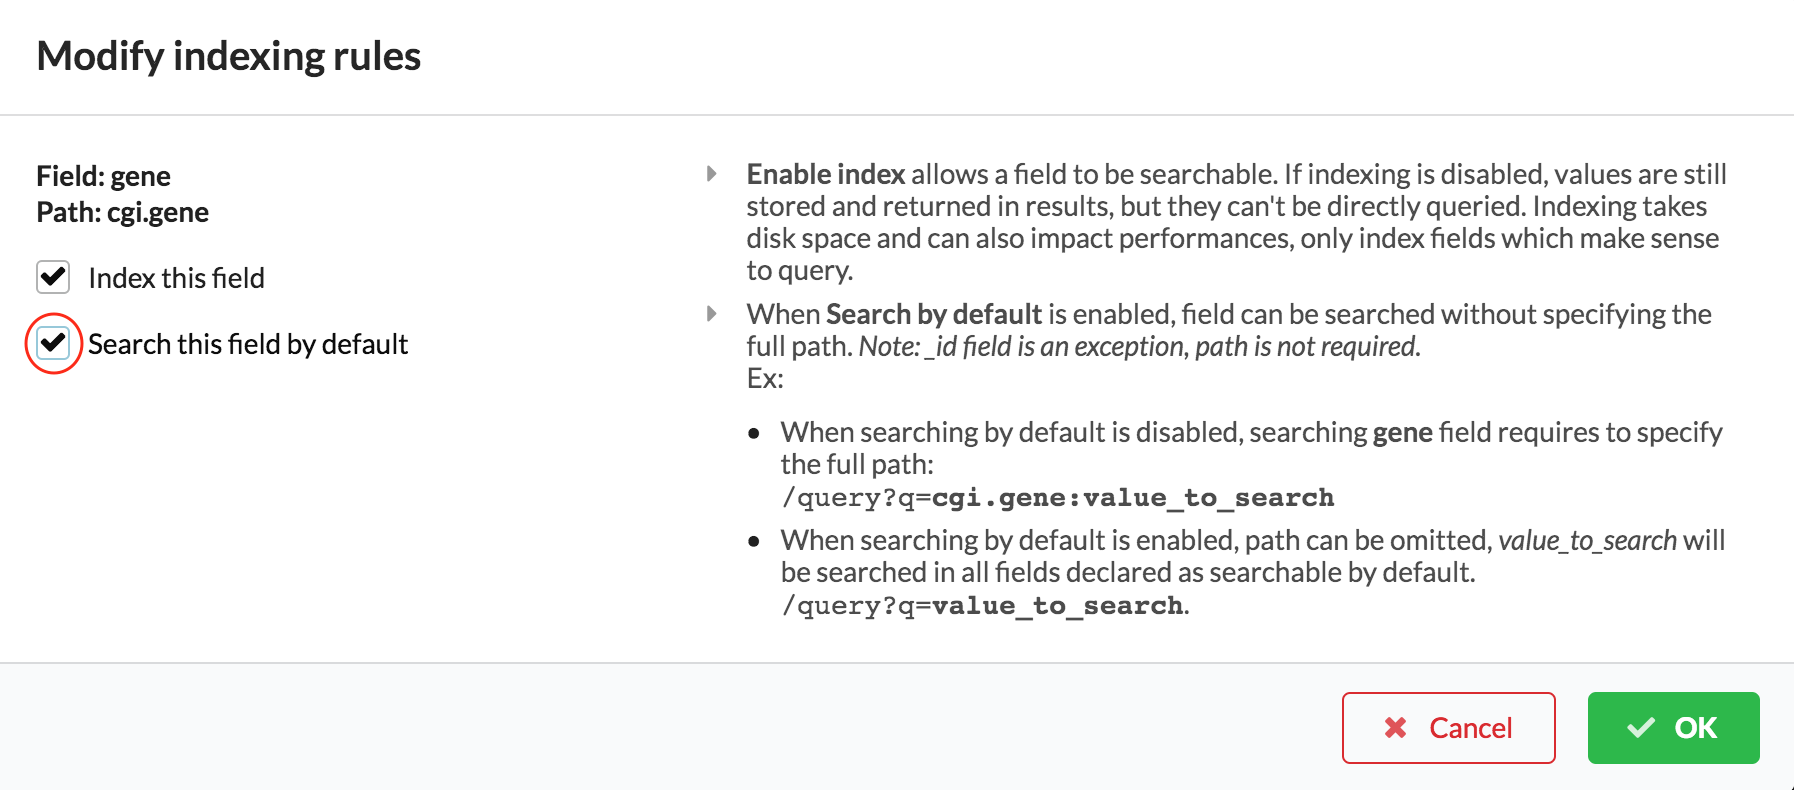
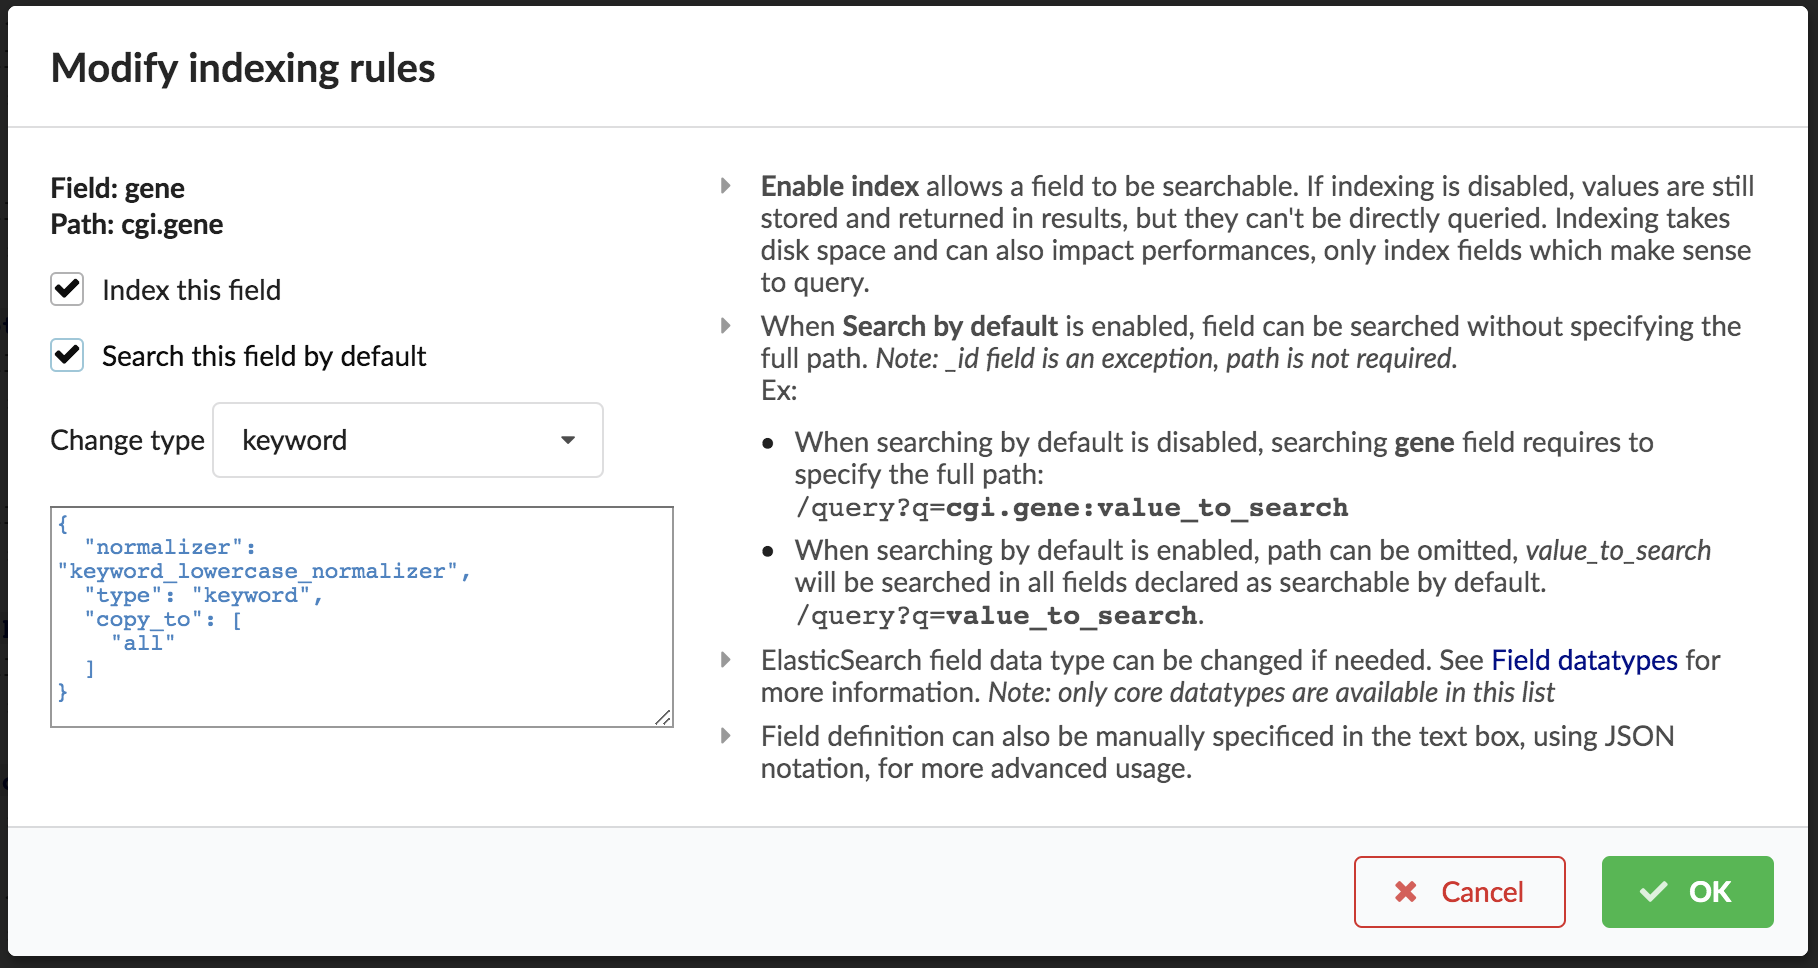
update studio doc for 0.1f release

Changed region(s): [[0.0, 0.0, 1.0, 1.0], [0.3434, 0.7291, 0.3746, 0.7595]]

diff --git a/docs/doc/studio_tutorial.rst b/docs/doc/studio_tutorial.rst
@@ -75,9 +75,9 @@ Once downloaded, the image can be loaded into the server:
   $ docker image load < biothings_studio_latest.docker
   $ docker image list
   REPOSITORY          TAG                 IMAGE ID            CREATED             SIZE
-  biothings_studio    0.1e                742a8c502280        2 months ago        1.81 GB
+  biothings_studio    0.1f                742a8c502280        2 months ago        1.81 GB
 
-Notice the value for *TAG*, we'll need it to run the container (here, ``0.1e``)
+Notice the value for *TAG*, we'll need it to run the container (here, ``0.1f``)
 
 A **BioThings Studio** instance expose several services on different ports:
 
@@ -94,15 +94,16 @@ having to enter the container:
 
 .. code:: bash
 
-  $ docker run --name studio -p 8080:8080 -p 7022:7022 -p 7080:7080 -p 9200:9200 -p 27017:27017 -p 8000:8000 -p 9000:9000 -d biothings_studio:0.1e
+  $ docker run --name studio -p 8080:8080 -p 7022:7022 -p 7080:7080 -p 9200:9200 -p 27017:27017 -p 8000:8000 -p 9000:9000 -d biothings_studio:0.1f
 
-.. note:: we need to add the release number after the image name: biothings_studio:**0.1e**. Should you use another release (including unstable releases,
+.. note:: we need to add the release number after the image name: biothings_studio:**0.1f**. Should you use another release (including unstable releases,
    tagged as ``master``) you would need to adjust this parameter accordingly.
 
 .. note:: Biothings Studio and the Hub are not designed to be publicly accessible. Those ports should **not** be exposed. When
    accessing the Studio and any of these ports, SSH tunneling can be used to safely access the services from outside.
-   Ex: ``ssh -L 7080:localhost:7080 -L 8080:localhost:8080 user@mydockerserver`` will expose the web application and
-   the REST API ports to your computer, so you can access the webapp using http://localhost:8080 and the API using http://localhost:7080.
+   Ex: ``ssh -L 7080:localhost:7080 -L 8080:localhost:8080 user@mydockerserver`` will expose the web application,
+   the REST API, Hub SSH and Cerebro app ports  to your computer, so you can access the webapp using http://localhost:8080, the API using http://localhost:7080,
+   http://localhost:9000 for Cerebro, and directly type ``ssh -p 7022 biothings@localhost`` to access Hub's internals via the console.
    See https://www.howtogeek.com/168145/how-to-use-ssh-tunneling for more
 
 We can follow the starting sequence using ``docker logs`` command:
@@ -114,6 +115,8 @@ We can follow the starting sequence using ``docker logs`` command:
   tcp        0      0 127.0.0.1:27017         0.0.0.0:*               LISTEN      -
   * Starting Elasticsearch Server
   ...
+  Waiting for cerebro
+  ...
   now run webapp
   not interactive
 
@@ -121,7 +124,7 @@ Please refer `Filesystem overview <studio_guide.html#filesystem-overview>`_ and 
 more details about Studio's internals.
 
 By default, the studio will auto-update its source code to the latest available and install all required dependencies. This behavior can be skipped
-by adding ``no-update`` at the end of the command line.
+by adding ``no-update`` at the end of the command line of ``docker run ...``.
 
 We can now access **BioThings Studio** using the dedicated web application (see `webapp overview <studio_guide.html#overview-of-biothings-studio-web-application>`_).
 
@@ -182,8 +185,8 @@ This folder must be located in the plugins directory (by default ``/data/biothin
 reloads itself accordingly to register data plugins. Another way to declare such plugin is to register a github repository,
 containing everything useful for the datasource. This is what we'll do in the following section.
 
-.. note:: whether the plugin comes from a github repository or directly found in the plugins directory doesn't really matter. In the end, the code
-   will be found that same plugins directory, whether it comes from a ``git clone`` command while registeting the github URL or whether it comes
+.. note:: Whether the plugin comes from a github repository or directly found in the plugins directory doesn't really matter. In the end, the code
+   will be found in that same ``plugins`` directory, whether it comes from a ``git clone`` command while registering the github URL or whether it comes
    from folder and files manually created in that location. It's however easier, when developing a plugin, to directly work on local files first
    so we don't have to regurlarly update the plugin code (``git pull``) from the webapp, to fetch the latest code. That said, since the plugin
    is already defined in github in our case, we'll use the github repo registration method.
@@ -313,8 +316,22 @@ In order to do so, click on `Mapping` tab, then click on |inspectlabelicon|.
 .. |inspectlabelicon| image:: ../_static/inspectlabelicon.png
    :width: 75px
 
-We're asked where the **Hub** can find the data to inspect. Since we successfully uploaded the data, we now have a Mongo collection so we can
-directly use this. Click on "OK" to let the **Hub** work and generate a mapping for us.
+We can inspect the data for different purposes:
+
+ * **Mode**
+   - ``type``: inspection will report any types found in the collection, giving detailed information about the structure
+     of documents coming from the parser. Note results aren't available from the webapp, only in MongoDB.
+   - ``stats``: same as type but gives numbers (count) for each structures and types found. Same as previous, results aren't available
+     in the webapp yet.
+   - ``mapping``: inspect the date types and suggest an ElasticSearch mapping. Will report any error or types incompatible with ES.
+
+Here we'll stick to mode ``mapping`` to generate that mapping. There are other options used to explore the data to inspect:
+
+ * **Limit**: limit the inspected documents.
+ * **Sample**: randomize the documents to inspect (1.0 = consider all documents, 0.0 = skip all documents, 0.5 = consider every other documents)
+
+The last two options can be used to reduce the inspection time of huge data collection, or you're absolutely sure the same structure is returned
+for any documents output from the parser.
 
 .. image:: ../_static/inspectmenu.png
    :width: 100%
@@ -327,7 +344,8 @@ Since the collection is very small, inspection is fast, you should have a mappin
 .. _fieldbydefault:
 
 For each field highlighted in blue, you can decide whether you want the field to be searchable or not, and whether the field should be searched
-by default when querying the API. Let's click on "gene" field and make it searched by default.
+by default when querying the API. You can also change the type for that field, or even switch to "advanced mode" and specify your own set of indexing rules.
+Let's click on "gene" field and make it searched by default.
 
 .. image:: ../_static/genefield.png
    :width: 100%

diff --git a/docs/doc/studio_guide.rst b/docs/doc/studio_guide.rst
@@ -152,8 +152,23 @@ shows a summary of current data recent updates. For now, it's pretty quiet since
 
 .. image:: ../_static/homeempty.png
 
-Let's have a quick overview of the different elements accessible through the webapp. At the top, different tabs give
-access to the main steps involved in building a BioThings API. We'll get into those in more details while we create our
+Let's have a quick overview of the different elements accessible through the webapp. On the top left is the connection widget.
+By default, **BioThings Studio** webapp will connect to the hub API through port 7080, the one running with docker. But the webapp
+is a static web page so you can access any other Hub API by configuring a new connection:
+
+.. image:: ../_static/connectionlist.png
+
+Enter the Hub API URL, ``http://<host>:<port>`` (you can omit ``http://``, the webapp will use that scheme by default)
+
+.. image:: ../_static/connectioncreate.png
+
+The new connection is now listed and can be accessed quickly later simply by selecting it. Note the connection can be deleted with the "trash" icon,
+but cannot be edited.
+
+.. image:: ../_static/connectionlist2.png
+
+Following are several tabs giving access to the main steps involved in building a BioThings API.
+We'll get into those in more details while we create our
 new API. On the right, we have different information about jobs and resources:
 
 .. figure:: ../_static/commands.png
@@ -286,5 +301,10 @@ take an filename as input, it should select the file(s) to parse.
     - ``ignore`` will skip any duplicates, only the first one found will be store
     - ``merge`` will merge existing document with the duplicated one. Refer to ``biothings.hub.dataload.storage.MergerStorage`` class for more.
 
-.. note:: a fully implemented data plugin is available at https://github.com/sirloon/mvcgi as an example.
+  * *parallelizer* points to a ``module:function_name`` that can be used when the uploader can be parallelized. If multiple input files exist, using the
+    exact same parser, the uploader can be parallelized using that option. The parser should take an input file as parameter, not a path to a folder. The parallizer
+    function should return a list of tuples, where each tuple corresponds to the list of input parameters for the parser.
+
+.. note:: Please see https://github.com/sirloon/mvcgi for a simple plugin definition. https://github.com/sirloon/gwascatalog will show how to use
+the ``release`` key and https://github.com/sirloon/FIRE will demonstrate the parallelization in the uploader section.
 
